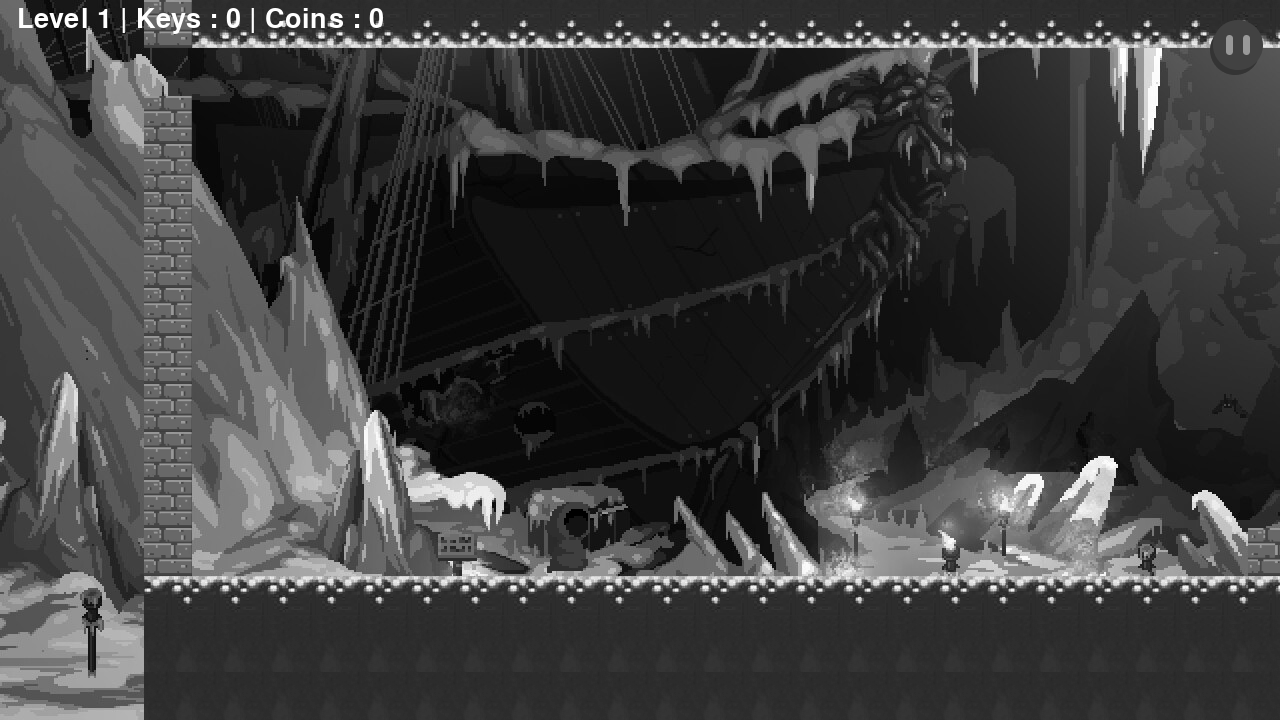
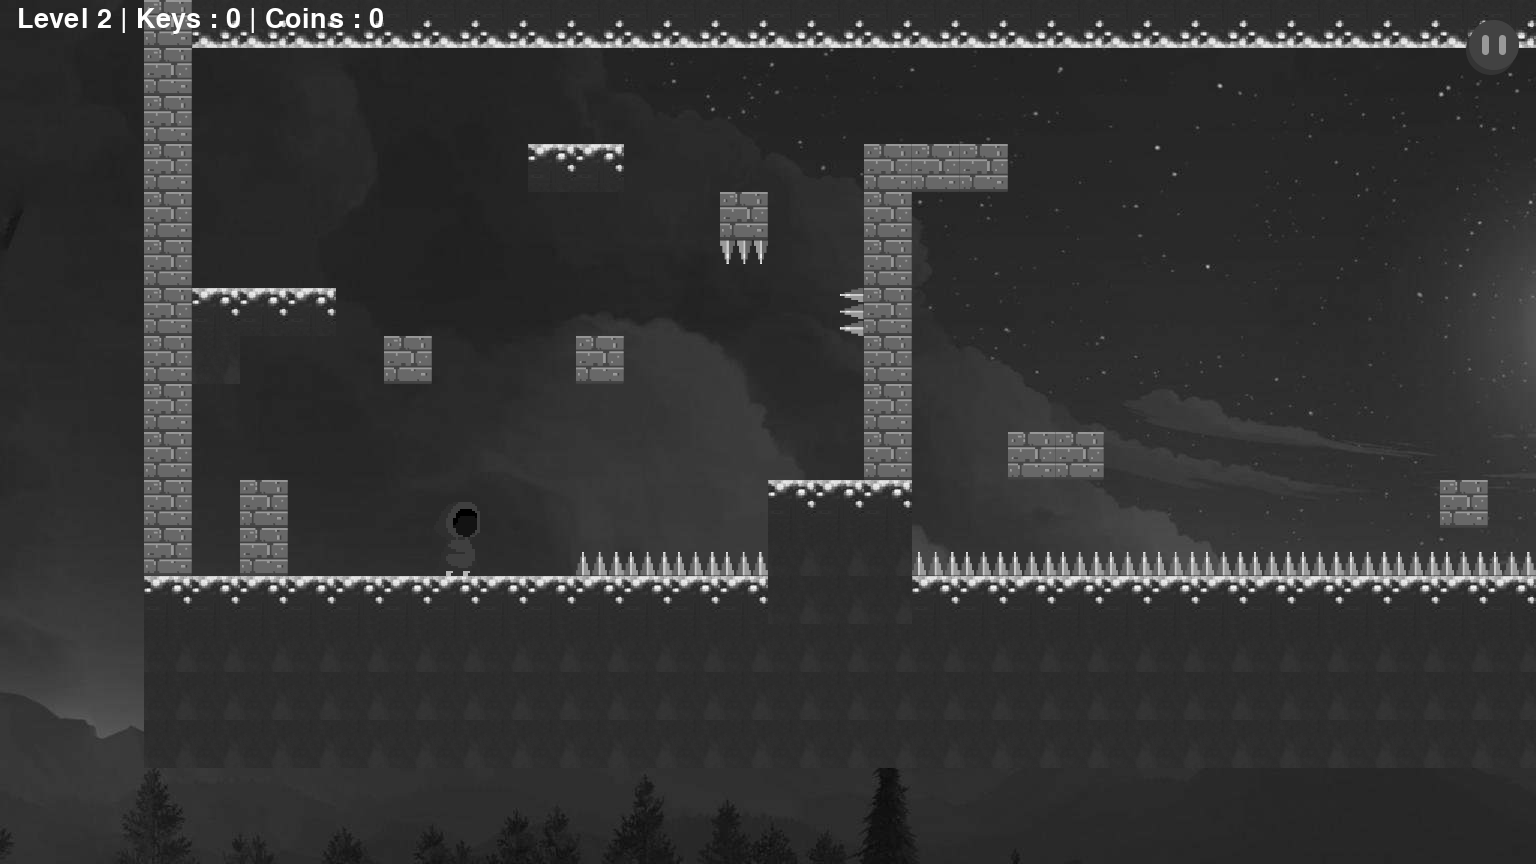
bhhn

diff --git a/main2.py b/main2.py
@@ -381,7 +381,6 @@ class Level:
         screen.blit(text, textRect)
 
 def main(level_map):
-
     def buttons_draw(screen):
         for b in buttons:
             b.draw(screen)
@@ -406,10 +405,24 @@ def main(level_map):
     screen = pygame.display.set_mode((WIDTH, HEIGHT))
 
     clock = pygame.time.Clock()
+    
+    if level_map == 1:
+        bg = pygame.image.load("./alien/background1.jpg")
+    elif level_map == 2:
+        bg = pygame.image.load("./alien/background2.jpg")
+    elif level_map == 3:
+        bg = pygame.image.load("./alien/background3.jpg")
+    elif level_map == 4:
+        bg = pygame.image.load("./alien/background4.jpg")
+    elif level_map == 5:
+        bg = pygame.image.load("./alien/background4.jpg")
+    elif level_map == 6:
+        bg = pygame.image.load("./alien/background4.jpg")
+
     spawn = "null"
+    
     level = Level(level_map, screen, spawn)
 
-    bg = pygame.image.load("./alien/background.jpg")
     pause = pygame.image.load("./game-image/pause.png")
 
 	#button position
@@ -504,5 +517,5 @@ def main(level_map):
             clock.tick(60)  #FPS
 
 if __name__ == "__main__":
-    spawn = "null"
+    spawn= "null"
     main(spawn)
